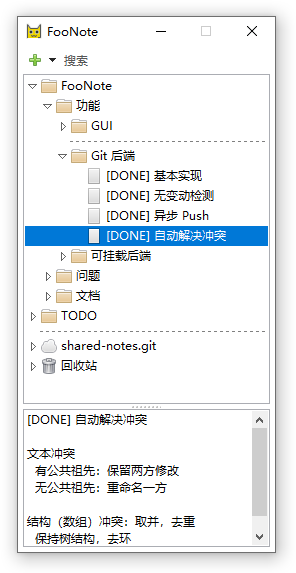
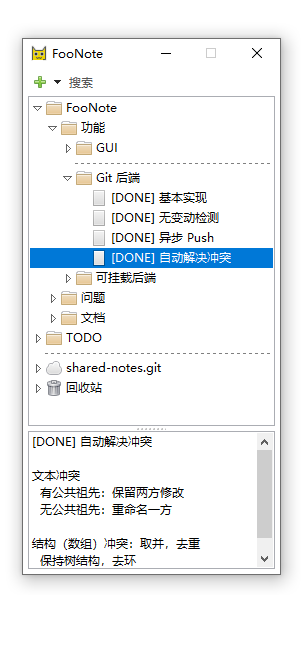
doc: add screenshot on macos

diff --git a/doc/index.rst b/doc/index.rst
@@ -14,6 +14,7 @@ FooNote 轻量，占屏窄，适用于配合其他各种应用使用做辅助笔
 FooNote 主界面如下：
 
 .. image:: image/main-window-win32.png
+.. image:: image/main-window-macos.png
 
 笔记呈树形结构，下方的文本框用来编辑选定的笔记。点击下面的主题了解详细内容：
 
@@ -22,6 +23,7 @@ FooNote 主界面如下：
    
    tree
    editor
+   dock
    backend
    hotkey
    changelog
